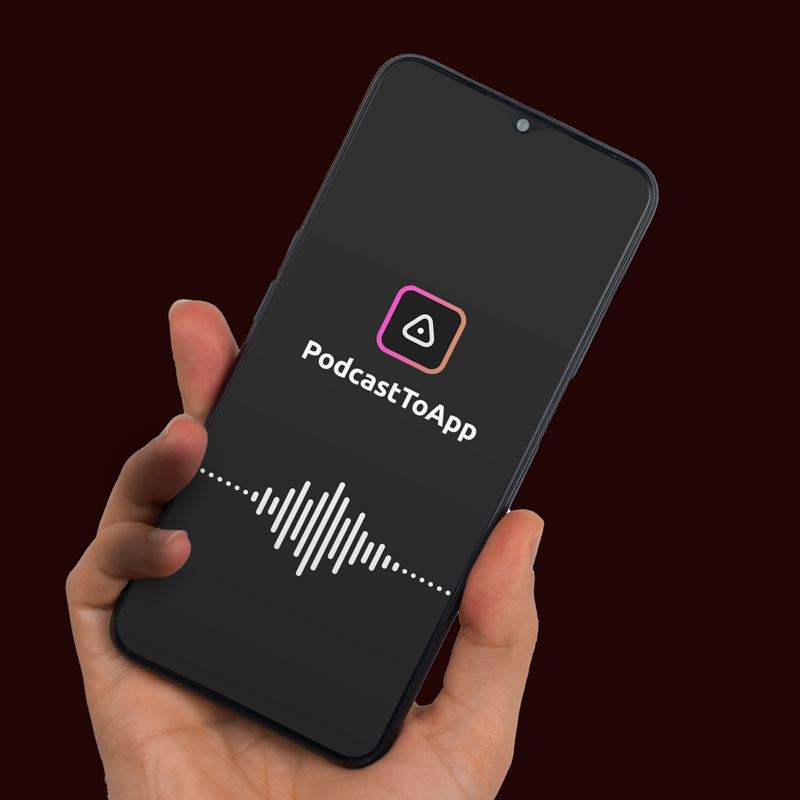
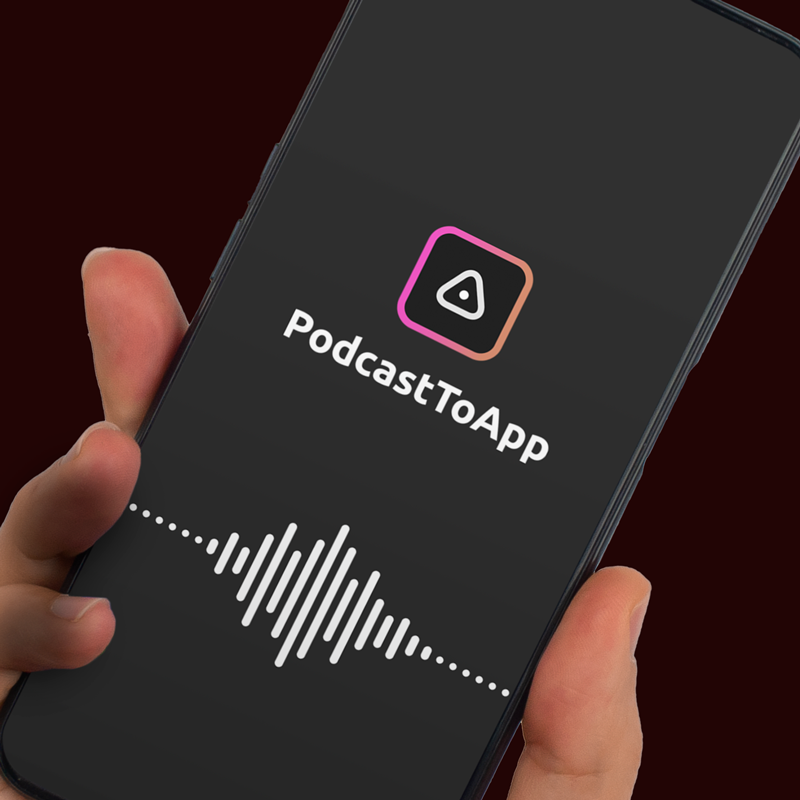
Portfolio thumbnails update

diff --git a/index.php b/index.php
@@ -176,18 +176,17 @@
       <!-- new Grid section start -->
 
       <section class="container-1080 grid-box" style="max-width: 1400px;">
-        
+      <div class="grid-item hidden"><img alt="" src="imgs/activity-cads/#"></div>
         <div class="grid-item hidden"><img alt="" src="imgs/activity-cads/podcasttoapp-app.png"></div>
         <div class="grid-item hidden"><img alt="" src="imgs/activity-cads/metas-investments-business-cards.png"></div>
-        <div class="grid-item hidden"><img alt="" src="imgs/activity-cads/health-and-travel-stationary.png"></div>
+        <div class="grid-item hidden"><img alt="" src="imgs/activity-cads/hemingway-distillery-whiskey-bottle.png"></div>
         <div class="grid-item hidden"><img alt="" src="imgs/activity-cads/mare-totebag.png"></div>
         <div class="grid-item hidden"><img alt="" src="imgs/activity-cads/prepkanga-stationary.webp"></div>
-        <div class="grid-item hidden"><img alt="" src="imgs/activity-cads/domingo.webp"></div>
-        <div class="grid-item hidden"><img alt="" src="imgs/activity-cads/#"></div>
-        <div class="grid-item hidden"><img alt="" src="imgs/activity-cads/the-barn-packaging.webp"></div>
+        <div class="grid-item hidden"><img alt="" src="imgs/activity-cads/the-barn-packaging.png"></div>
         <div class="grid-item hidden"><img alt="" src="imgs/activity-cads/altirand-ios-app-icon.png"></div>
-        <div class="grid-item hidden"><img alt="" src="imgs/activity-cads/magusvalge-packaging.webp"></div>
-        <div class="grid-item hidden"><img alt="" src="imgs/activity-cads/hemingway-distillery-whiskey-bottle.png"></div>
+        <div class="grid-item hidden"><img alt="" src="imgs/activity-cads/magusvalge-menu.png"></div>
+        <div class="grid-item hidden"><img alt="" src="imgs/activity-cads/domingo.webp"></div>
+        <div class="grid-item hidden"><img alt="" src="imgs/activity-cads/health-and-travel-stationary.png"></div>
         <div class="grid-item hidden"><img alt="" src="imgs/activity-cads/photographers-website.webp"></div>
       </section>
 
